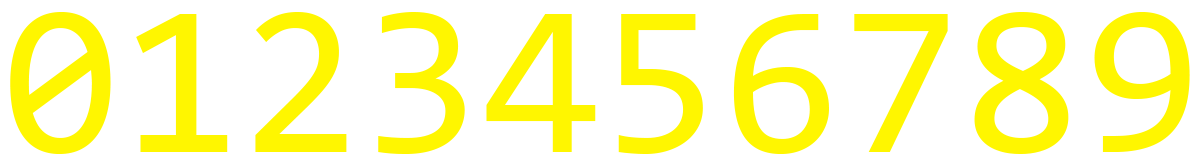
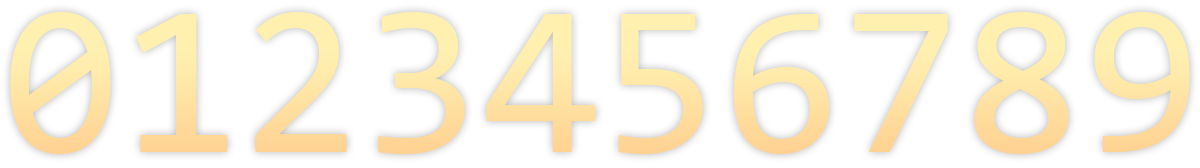
切换背景

diff --git a/public/index.html b/public/index.html
@@ -36,16 +36,16 @@
         canvasWidth = window.innerWidth,
         canvasHeight = window.innerHeight,
         gl = canvas.getContext("2d"),
-        viewWidth = 1920,
+        viewWidth = 2592,
         viewScale = 1,
         numbersPadding = 20,
         numberTextureWidth = 120,
         numberTextureHeight = 168,
         numbersImage = new Image(),
         numbersSprite = [],
-        numbersDrawClip = [690, 600, 540, 168],
-        currentBackground = 3,
-        backgroundImages = [new Image(), new Image(), new Image()],
+        numbersDrawClip = [1026, 510, 540, 168],
+        currentBackground = 0,
+        backgroundImages = [new Image(), new Image(), new Image(), new Image()],
         backgroundSprites = [],
         columnsCount = 5,
         numbersPositionColumns = [],
@@ -123,11 +123,13 @@
                 };
             }
         }
+
+        state = "idle";
     }
 
     function onKeyPress(evt) {
         if (evt.code === "Space") {
-            if (state === "idle") {
+            if (state === "idle" && currentBackground > 0) {
                 startRunning();
             } else if (state === "running") {
                 stopRunning();
@@ -137,6 +139,9 @@
                 storage.clear();
                 existsNumbers.length = 0;
             }
+        } else if (evt.code === "Digit0") {
+            currentBackground = 0;
+            initNumbers();
         } else if (evt.code === "Digit1") {
             currentBackground = 1;
             initNumbers();
@@ -170,8 +175,7 @@
 
     function updateLoadState() {
         loadCount++;
-        if (loadCount < 4) return;
-
+        if (loadCount < 5) return;
         create();
     }
 
@@ -198,7 +202,7 @@
                 numberTextureWidth, numberTextureHeight);
         }
 
-        for (i = 0; i < 3; i++) {
+        for (i = 0; i < 4; i++) {
             backgroundSprites[i] = new Sprite(backgroundImages[i], 0, 0, backgroundImages[i].width, backgroundImages[i].height);
         }
         initNumbers();
@@ -265,22 +269,24 @@
     function draw() {
         gl.save();
         gl.fillRect(0, 0, canvasWidth, canvasHeight);
-        backgroundSprites[currentBackground - 1].draw(0, 0);
+        backgroundSprites[currentBackground].draw(0, 0);
 
-        gl.beginPath();
-        gl.rect(numbersDrawClip[0] * viewScale, numbersDrawClip[1] * viewScale,
-            numbersDrawClip[2] * viewScale, numbersDrawClip[3] * viewScale);
-        gl.clip();
+        if (currentBackground > 0) {
+            gl.beginPath();
+            gl.rect(numbersDrawClip[0] * viewScale, numbersDrawClip[1] * viewScale,
+                numbersDrawClip[2] * viewScale, numbersDrawClip[3] * viewScale);
+            gl.clip();
 
-        // draw all columns
-        for (var c = 0; c < columnsCount; c++) {
-            var column = numbersPositionColumns[c];
-            var rows = column.rows;
-            for (var r = 0; r < rows.length; r++) {
-                var x = c * (numberTextureWidth + numbersPadding) + numbersDrawClip[0];
-                var y = rows[r].y + numbersDrawClip[1];
-                var spr = numbersSprite[rows[r].number];
-                spr.draw(x, y);
+            // draw all columns
+            for (var c = 0; c < columnsCount; c++) {
+                var column = numbersPositionColumns[c];
+                var rows = column.rows;
+                for (var r = 0; r < rows.length; r++) {
+                    var x = c * (numberTextureWidth + numbersPadding) + numbersDrawClip[0];
+                    var y = rows[r].y + numbersDrawClip[1];
+                    var spr = numbersSprite[rows[r].number];
+                    spr.draw(x, y);
+                }
             }
         }
 
@@ -298,11 +304,11 @@
     };
     numbersImage.src = "numbers.png";
 
-    for (var i = 1; i <= 3; i++) {
-        backgroundImages[i - 1].onload = function () {
+    for (var i = 0; i < 4; i++) {
+        backgroundImages[i].onload = function () {
             updateLoadState();
         };
-        backgroundImages[i - 1].src = "bg" + i.toString() + ".jpg";
+        backgroundImages[i].src = "bg" + i.toString() + ".jpg";
     }
 </script>
 </html>
